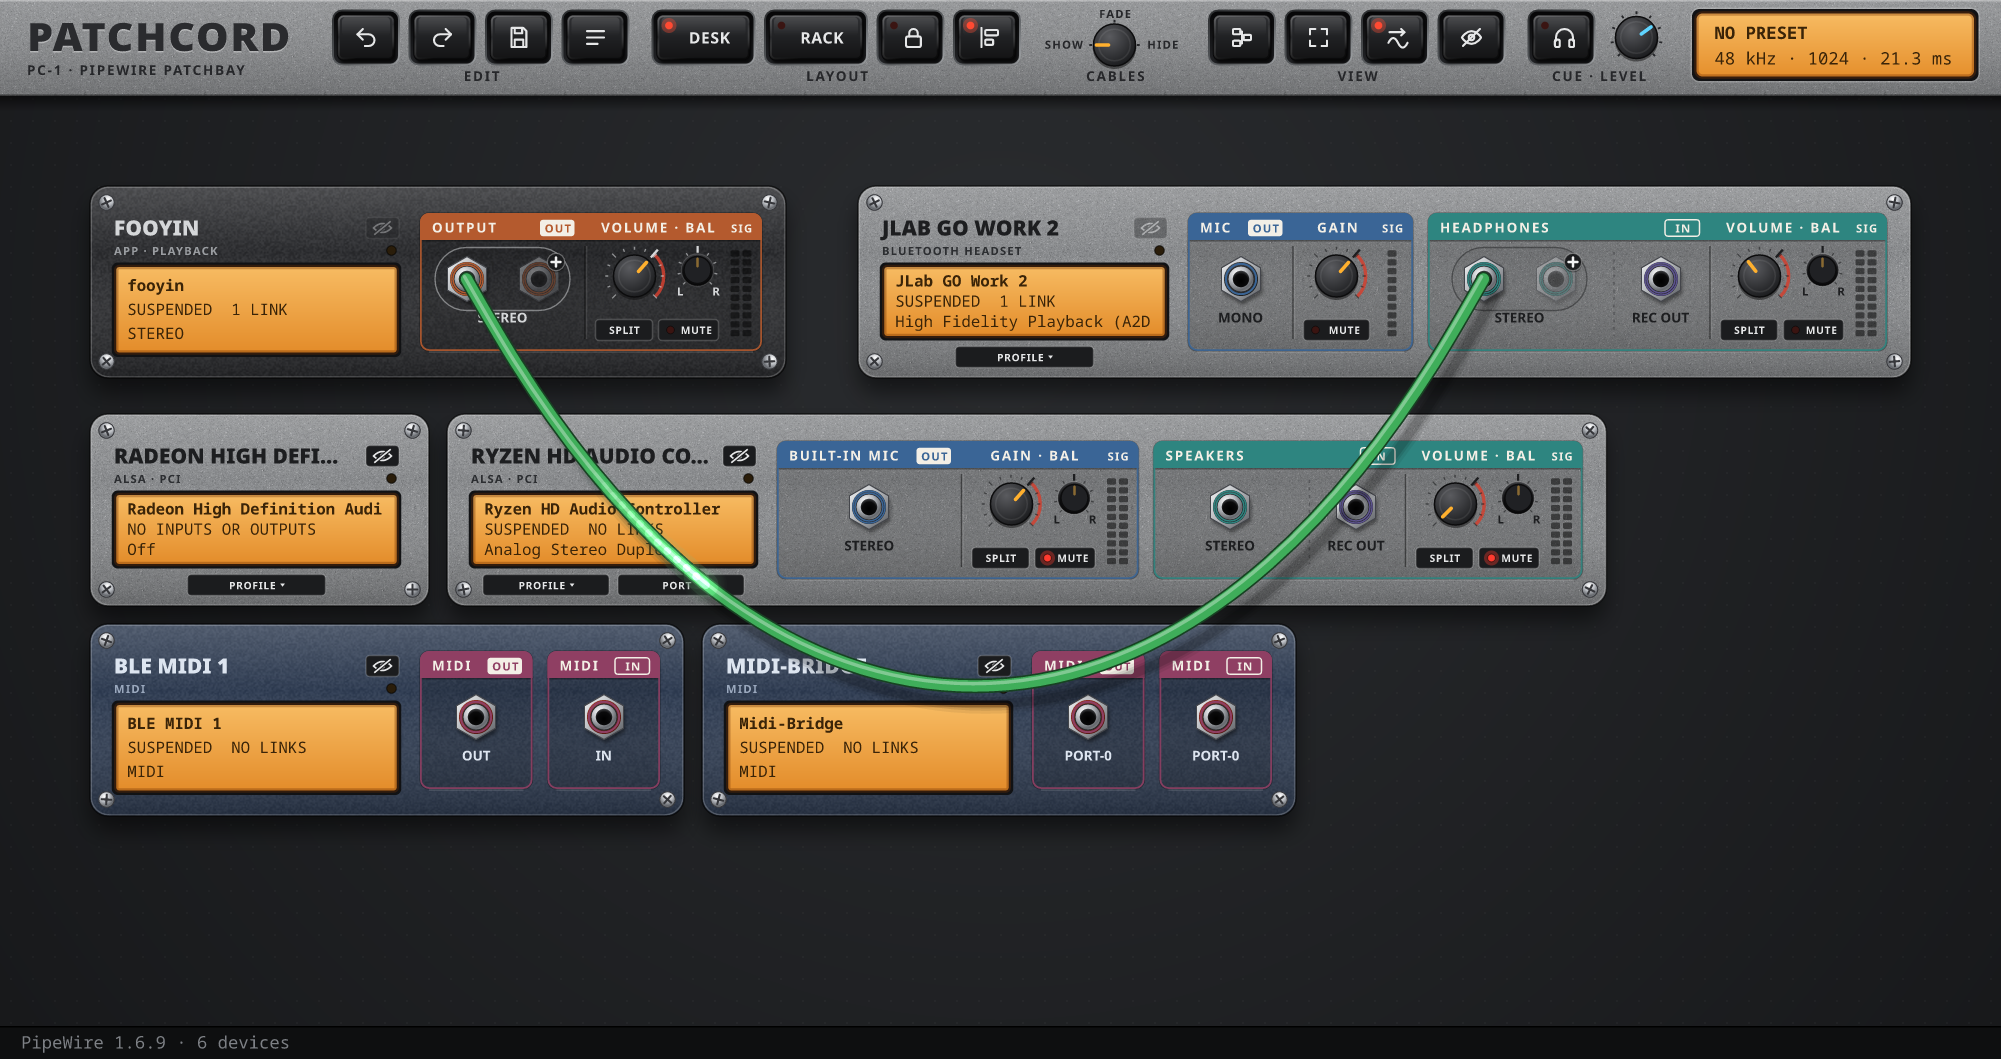
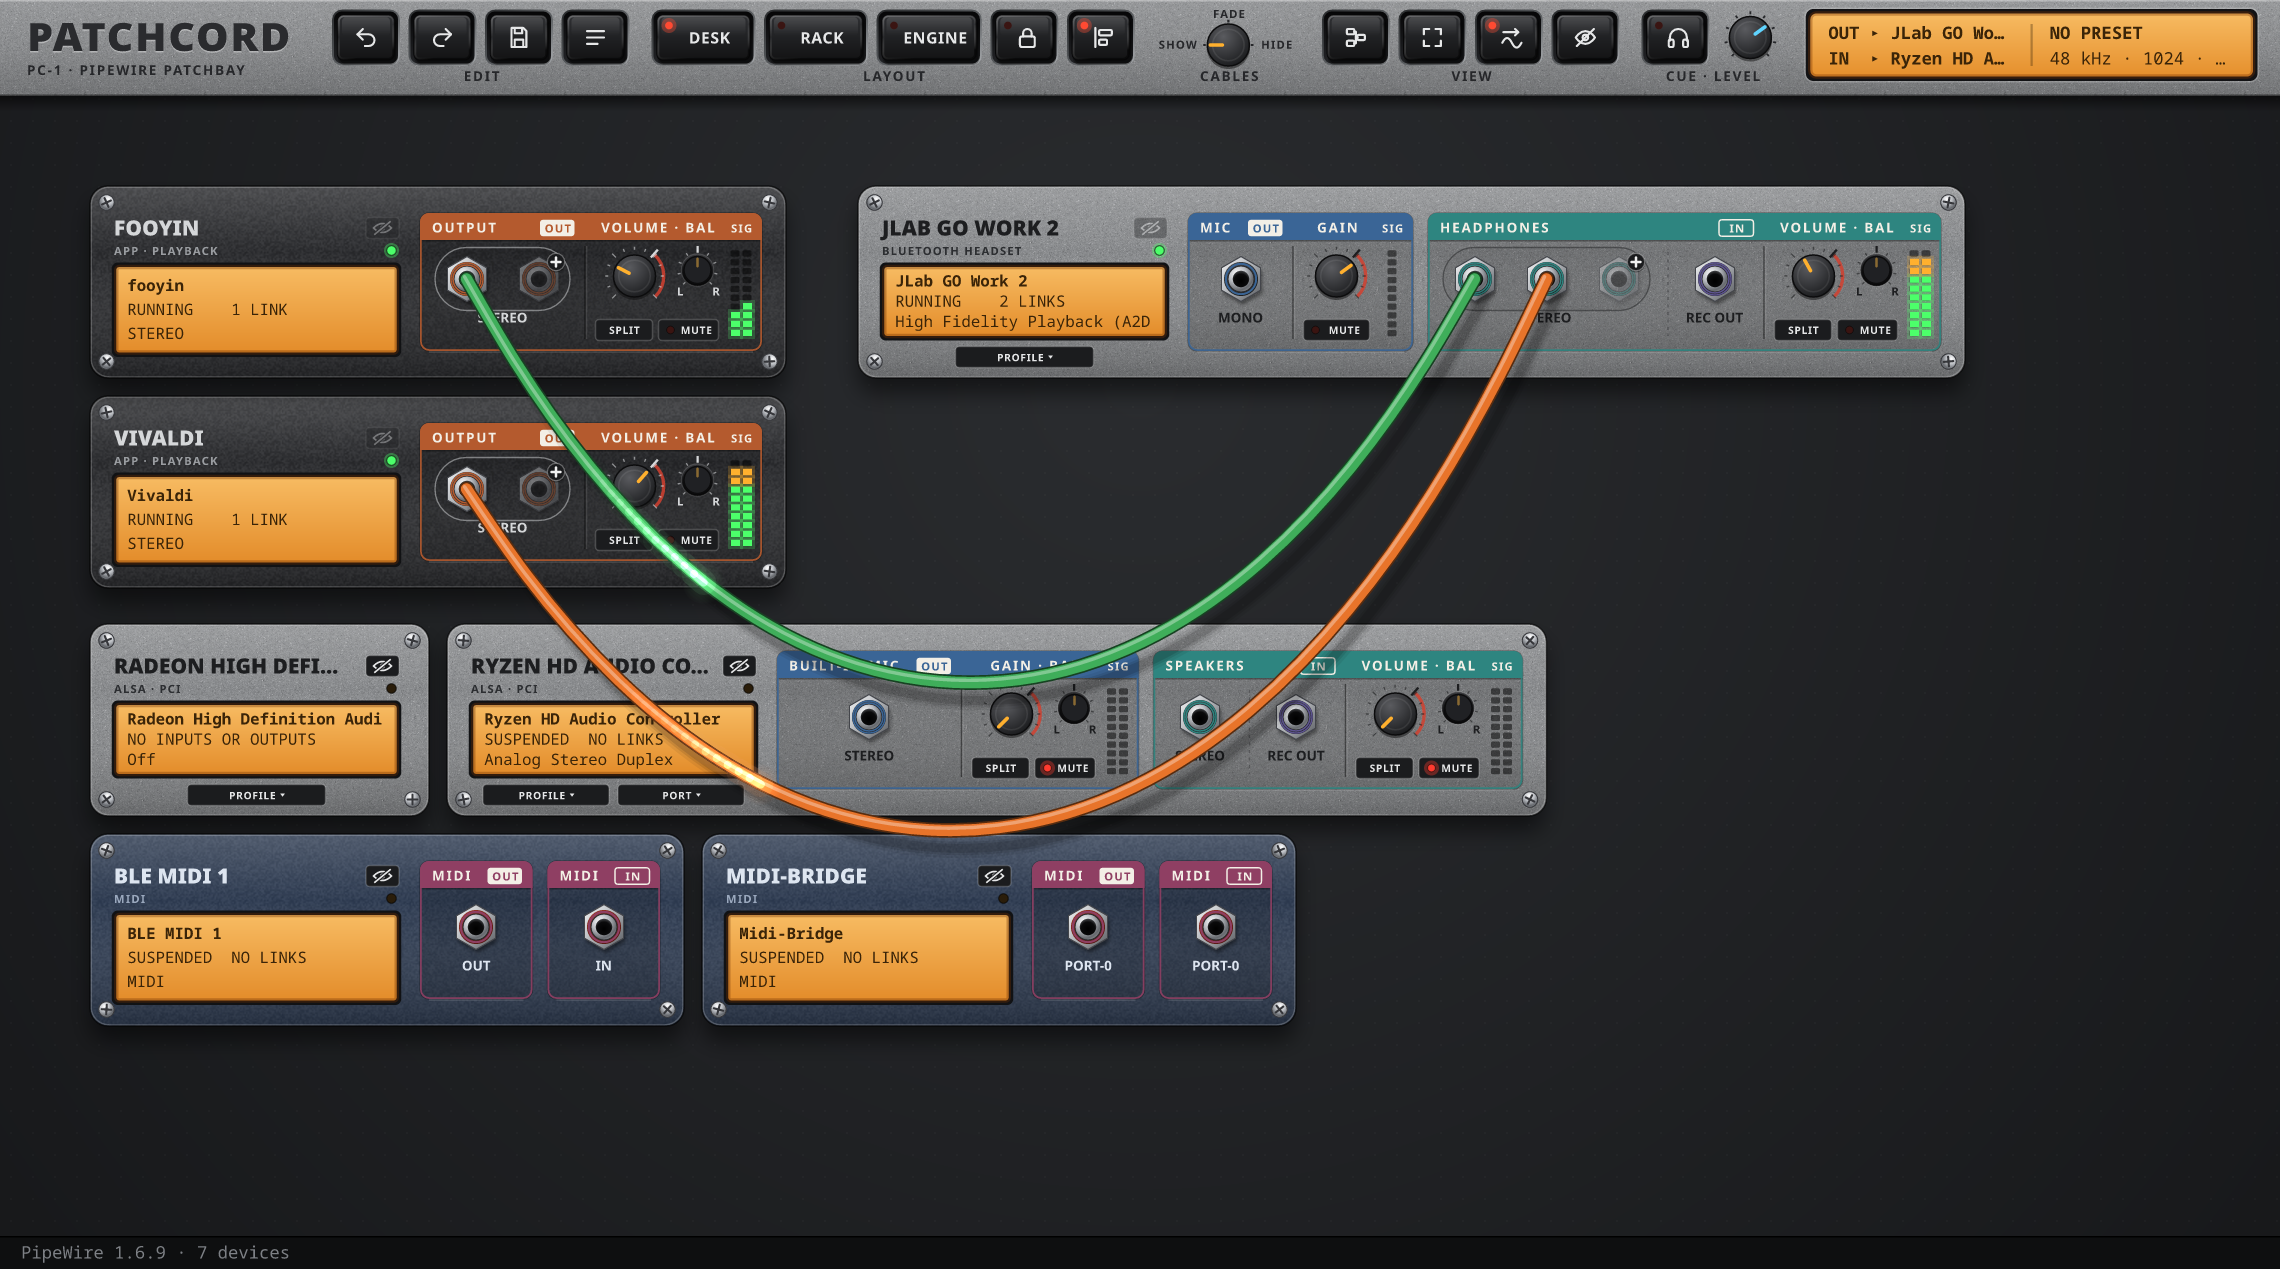
chore: release 0.5.0
- ENGINE: PipeWire's real graph, diagnostics and SAVE REPORT
- Narrow windows: the top panel folds into MORE
- Faster and lighter: cords on the GPU, pictures in the background
- README: rack and ENGINE under the animation, an ENGINE section,
  MORE, PATCHCORD_FRAMES and the ENGINE render; new animation,
  screenshots and social preview

Closes #16, closes #10

diff --git a/README.md b/README.md
@@ -13,7 +13,10 @@ hangs, swings and settles like a real one.
 ![Linux](https://img.shields.io/badge/Linux-Wayland_%7C_X11-fcc624?logo=linux&logoColor=black)
 ![PipeWire](https://img.shields.io/badge/PipeWire-1.0+-4a86c5)
 
-<img src="docs/screenshots/demo.gif" width="900" alt="Patching cords between devices on the desk, dragging a device into line, and switching to the rack and back">
+<img src="docs/screenshots/demo.gif" width="900" alt="Patching cords between devices on the desk, dragging a device into line, the rack, and ENGINE with an app's details">
+
+<a href="docs/screenshots/rack.png"><img src="docs/screenshots/rack.png" width="440" alt="The devices in a 19-inch rack"></a>
+<a href="docs/screenshots/engine.png"><img src="docs/screenshots/engine.png" width="440" alt="ENGINE: PipeWire's real nodes, ports and links, grouped by driver, with an app's details and the TOP table"></a>
 
 </div>
 
@@ -21,7 +24,9 @@ Patchcord shows the live PipeWire graph, audio and MIDI, with signal meters and 
 device. You patch it with the mouse, on a desk or in a 19" rack, and keep your setups as presets.
 It also does what pavucontrol does, built into the panels: the volume (or recording gain),
 balance and mute of each app and each device beside its jacks, a sound card's profile and ports,
-and the default output and input on the top panel. What comes next is in the [issues](https://github.com/bewzaalex/patchcord/issues). The design is the
+and the default output and input on the top panel. ENGINE shows what PipeWire really has under
+the panels: every node, port and link, grouped by the driver that clocks them, with timings,
+xruns and what looks wrong. What comes next is in the [issues](https://github.com/bewzaalex/patchcord/issues). The design is the
 interactive mockup in [docs/design/mockup](docs/design/mockup/index.html).
 
 ## Installation
@@ -179,8 +184,9 @@ audio, its own SIG meter (what comes in, or what goes out, after its volume or g
 
 | | |
 | --- | --- |
-| Drag a device | on the desk it stops at other devices and slides along them, and sticks lightly to their edges and centres, with a guide line (G: place freely); in RACK, drag it up or down to change the order |
+| Drag a device | on the desk it stops at other devices and slides along them, and sticks lightly to their edges and centres, with a guide line (G: place freely; ALIGN is off in the rack); in RACK, drag it up or down to change the order |
 | R, or DESK / RACK | devices on a desk, or in a 19" rack (each keeps its desk place) |
+| MORE ▾ | in a narrow window the top panel makes room: the logo goes first, then the keys the screen can't use, then groups fold into MORE from the right. MORE drops them below the panel as they are |
 | A, or ARRANGE | devices with cords in columns by signal flow (sources left), ordered so cords cross less; the unused ones after them, kind by kind (sound cards, apps, MIDI), in rows shaped to the window so the faces come out as big as they can |
 | F | fit everything in the window |
 | L | lock devices in place |
@@ -188,6 +194,22 @@ audio, its own SIG meter (what comes in, or what goes out, after its volume or g
 | Drag empty space, or right/middle drag · wheel | pan · zoom |
 | Ctrl+S / Ctrl+O, or the LCD | save a new preset / pick one from the list |
 | Esc · Ctrl+Q | close a list, leave CUE mode · quit |
+
+### ENGINE: what PipeWire really has
+
+ENGINE (E) shows PipeWire's own graph, read-only, for when you want to know what is really going
+on: what the panels leave out, which clock drives what, and why something crackles.
+
+| | |
+| --- | --- |
+| Blocks | a block per node, grouped under the driver that clocks it (NOT RUNNING: nothing clocks it now, no CPU used). Coloured by what it is: device, app, system, MIDI, video, Patchcord's own meters. Its ports are ears on its edges, inputs left, outputs right; a light shows if it runs, idles, sleeps or had xruns |
+| Links | in the colour of the block they come out of; faded when paused, dashed when they only listen (meters), red when the ends share no format. A stereo pair runs side by side, its distance kept |
+| Click | a node, port or link turns amber with what belongs to it, and its details open on the right: INFO, PROPS, PARAMS, TIMING, where it is on the desk (SHOW ON DESK goes there), its ports and links |
+| ALSO SHOW | Patchcord's meters, MIDI, what isn't running, PipeWire's internal drivers, on and off |
+| The strip | the clock, the quantum, the DSP load with its last 45 seconds, xruns, then (when there is room) drivers, server, session, allowed rates and objects; in a narrow window those are behind **i**. HEALTH counts errors, warnings and notes |
+| DIAGNOSTICS | the tables below: TOP (as `pw-top`: each driver and its nodes, the last half second's timings), ISSUES (what looks wrong, worst first, with what to do), OBJECTS, METADATA, EVENTS. **SAVE REPORT** writes it all to a text file in your home folder for a bug report, without your user and host names, MAC addresses or the titles of what plays |
+| ? or LEGEND | how to read the graph: colours, lights, links, tags, groups |
+| Drag · wheel · F · Esc | pan · zoom · fit · deselect; E or DESK / RACK goes back |
 
 Settings and presets are plain text files in `~/.config/patchcord`: `settings.txt` (cords, lock,
 lining up, colours, the cord lights, desk or rack, window size, where devices sit, the rack's
@@ -202,9 +224,14 @@ draws the current graph to a PNG without opening a window, with its live signal 
 rack, with a few cords added to the picture only (`demo`, for screenshots), every stereo jack
 split, the pointer on a jack, a cord's end in the hand, a drop-down or a card's list open, only
 some devices, or at a given size (`PATCHCORD_SCALE` sets the scale, 1.5 by default).
+`patchcord --render out.png engine [select=NODE] [tab=top|issues|objects|metadata|events]
+[itab=info|props|params|timing] [shut=bottom] [legend] [info] [size=WxH]` draws ENGINE the same
+way, after letting PipeWire's profiler run for two seconds; MAC addresses in names are masked.
 `patchcord --record DIR` plays a short scripted session on the current graph and saves it as
 frames for the README's animation; neither changes anything in PipeWire. `PATCHCORD_DEBUG=1`
-prints which GPU it uses and PipeWire's errors that are otherwise expected noise.
+prints which GPU it uses and PipeWire's errors that are otherwise expected noise;
+`PATCHCORD_FRAMES=1` prints every slow frame and what took the time (or `PATCHCORD_FRAMES=FILE`
+writes it to a file), for reports about the app feeling slow.
 
 ### Bluetooth headsets: when the microphone switches on
 

diff --git a/docs/RELEASING.md b/docs/RELEASING.md
@@ -34,14 +34,20 @@ newer C library and PipeWire. Their contents are set in `Cargo.toml` under
    cfg=$(mktemp -d)
    XDG_CONFIG_HOME=$cfg PATCHCORD_SCALE=1.5 cargo run --release -- --render docs/screenshots/desk.png
    XDG_CONFIG_HOME=$cfg PATCHCORD_SCALE=1.5 cargo run --release -- --render docs/screenshots/rack.png rack
+   XDG_CONFIG_HOME=$cfg PATCHCORD_SCALE=1.5 cargo run --release -- --render docs/screenshots/engine.png engine select=APP tab=top size=2400x1500
    rm -rf $cfg
    for f in docs/screenshots/*.png; do magick $f -strip -define png:compression-level=9 $f; done
    ```
 
+   `APP` is the name of an app that plays (its node is chosen and its details open). The desk and
+   the rack come out at least 1520 units wide, so the top panel shows whole, logo and all; ENGINE
+   masks MAC addresses in names (Bluetooth devices are named by them). The README shows the rack
+   and ENGINE small under the animation, and the metainfo lists all three.
+
    The README's animation is a short scripted session, played on your live graph (nothing is
    linked in PipeWire; the meters show what really plays): an app patched into speakers or headphones it isn't patched to yet, MIDI
-   from Midi-Bridge to BLE MIDI, a device dragged into line, the rack and back. So start an app
-   playing first; a step whose devices aren't there is skipped:
+   from Midi-Bridge to BLE MIDI, a device dragged into line, the rack and back, then ENGINE with
+   an app's details. So start an app playing first; a step whose devices aren't there is skipped:
 
    ```sh
    cfg=$(mktemp -d) frames=$(mktemp -d)
@@ -69,10 +75,10 @@ newer C library and PipeWire. Their contents are set in `Cargo.toml` under
      -font $f/NotoSans-Black.ttf -fill '#f3f3f3' -pointsize 64 -annotate +54+250 'Patchcord' \
      -font $f/NotoSans-Bold.ttf -fill '#c9ccd1' -pointsize 25 -annotate +56+300 'A PipeWire patchbay that looks' -annotate +56+332 'like a rack of real gear' \
      -font $f/NotoSans-Bold.ttf -fill '#9a9da2' -pointsize 19 -annotate +76+392 'Patch cords that hang and swing' \
-     -annotate +76+424 'Live meters, volume, cue' -annotate +76+456 'Desk or 19" rack, presets, undo' \
-     -fill '#f0a64a' -draw "circle 61,386 65,386" -draw "circle 61,418 65,418" -draw "circle 61,450 65,450" \
-     -font $f/NotoSansMono-Bold.ttf -fill '#f0a64a' -pointsize 16 -annotate +56+540 'LINUX · PIPEWIRE · OPEN SOURCE' \
-     -font $f/NotoSansMono-Regular.ttf -fill '#7d8085' -pointsize 15 -annotate +56+568 'github.com/bewzaalex/patchcord' \
+     -annotate +76+424 'Live meters, volume, cue' -annotate +76+456 'Desk or 19" rack, presets, undo' -annotate +76+488 'ENGINE: the real graph, timings' \
+     -fill '#f0a64a' -draw "circle 61,386 65,386" -draw "circle 61,418 65,418" -draw "circle 61,450 65,450" -draw "circle 61,482 65,482" \
+     -font $f/NotoSansMono-Bold.ttf -fill '#f0a64a' -pointsize 16 -annotate +56+560 'LINUX · PIPEWIRE · OPEN SOURCE' \
+     -font $f/NotoSansMono-Regular.ttf -fill '#7d8085' -pointsize 15 -annotate +56+588 'github.com/bewzaalex/patchcord' \
      -depth 8 -strip docs/screenshots/social-preview.png
    rm -rf $cfg $t
    ```
